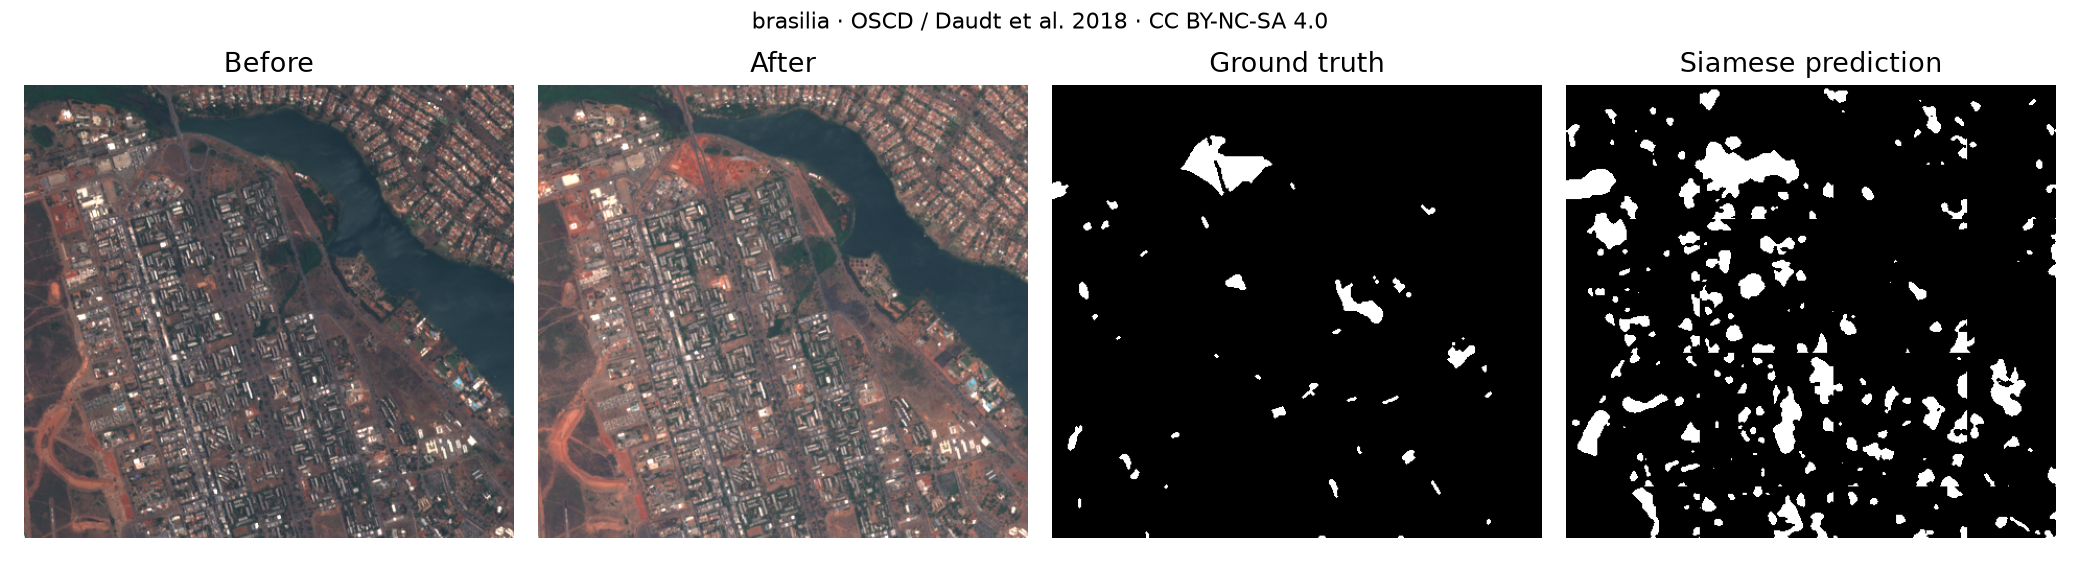
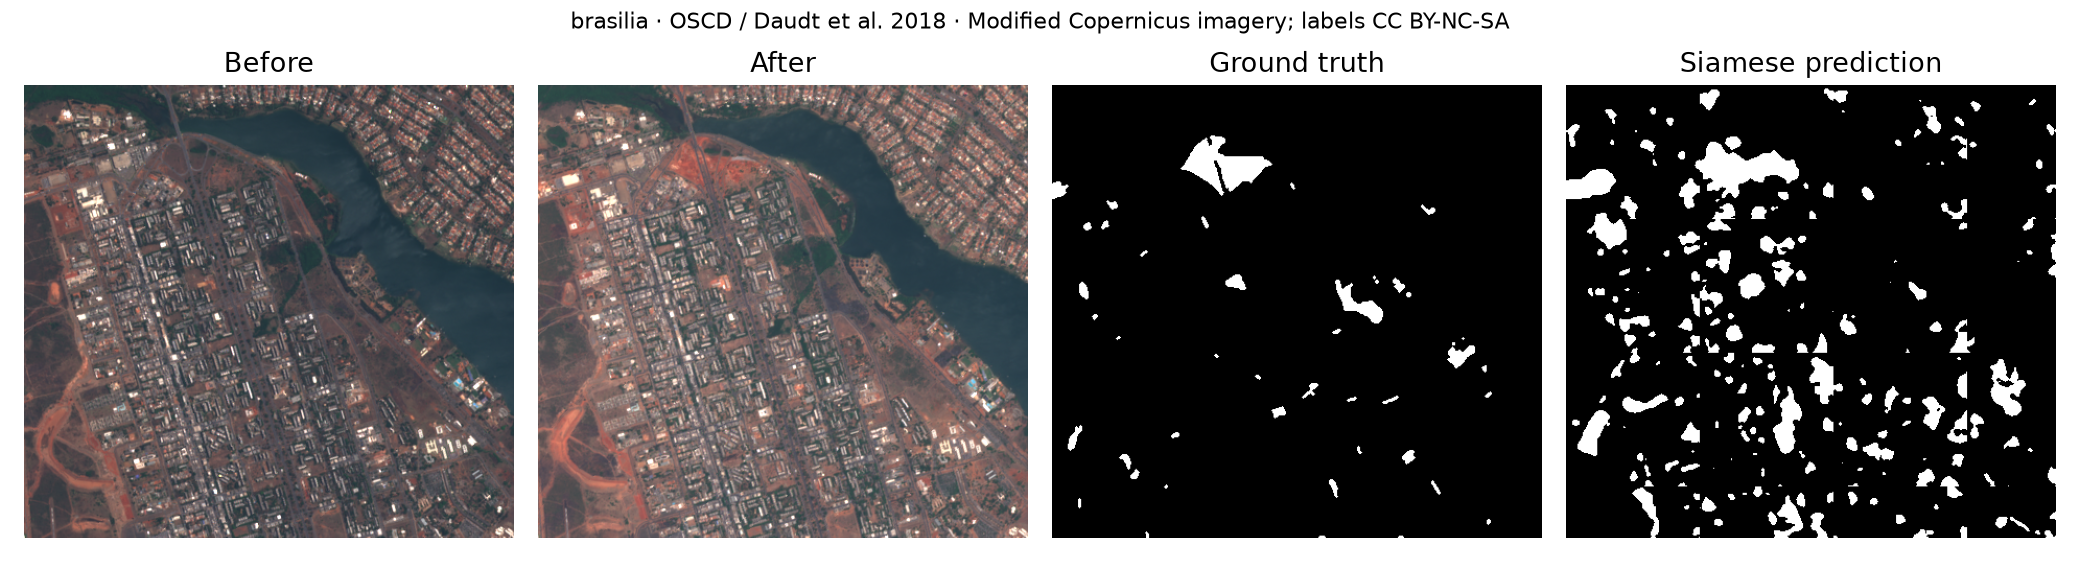
Verify rectified satellite inputs and document evaluated image extents

Changed region(s): [[0.2812, 0.0, 0.7188, 0.0625]]

diff --git a/change_lab/data.py b/change_lab/data.py
@@ -18,7 +18,7 @@ def prepare(root=Path('data')):
         p=root/name;raw=p.read_bytes()
         if hashlib.md5(raw).hexdigest()!=expected:raise ValueError('Archive does not match published TorchGeo MD5: '+name)
         manifest.append({'archive':name,'url':url,'sha256':hashlib.sha256(raw).hexdigest(),'bytes':len(raw),'md5_verified':expected})
-    samples={};groups={}
+    samples={};groups={};extents={}
     with zipfile.ZipFile(root/'images.zip') as images:
         names={n.replace('\\','/'):n for n in images.namelist()}
         for group in ['train','test']:
@@ -26,17 +26,26 @@ def prepare(root=Path('data')):
             with zipfile.ZipFile(root/(group+'-labels.zip')) as labels:
                 mask_names=[n for n in labels.namelist() if n.replace('\\','/').endswith('/cm/cm.png')]
                 for mask_name in mask_names:
-                    city=mask_name.replace('\\','/').split('/')[-3];cities.append(city);arrays=[]
+                    city=mask_name.replace('\\','/').split('/')[-3];cities.append(city);arrays=[];rectified=[]
                     for time in ['imgs_1','imgs_2']:
-                        channels=[]
+                        channels=[];reference=[]
                         for band in BANDS:
                             matches=[original for normalized,original in names.items() if '/'+city+'/'+time+'/' in normalized and normalized.endswith('_'+band+'.tif')]
                             if len(matches)!=1:raise ValueError(f'Expected one {city}/{time}/{band}, found {matches}')
                             channels.append(read_image(images,matches[0]).astype(np.float32))
+                            rect=[original for normalized,original in names.items() if '/'+city+'/'+time+'_rect/'+band+'.tif' in normalized]
+                            if len(rect)!=1:raise ValueError('Missing rectified reference band')
+                            reference.append(read_image(images,rect[0]).astype(np.float32))
                         arrays.append(np.stack(channels))
+                        rectified.append(np.stack(reference))
                     mask=read_image(labels,mask_name)
                     if mask.ndim==3:mask=mask[...,0]
                     h=min(mask.shape[0],arrays[0].shape[1],arrays[1].shape[1]);w=min(mask.shape[1],arrays[0].shape[2],arrays[1].shape[2])
+                    for original,reference in zip(arrays,rectified):
+                        if not np.array_equal(original[:,:h,:w],reference[:,:h,:w]):
+                            raise ValueError('Native bands disagree with rectified inputs: '+city)
+                    extents[city]={'label_shape':list(mask.shape[:2]),'evaluated_shape':[h,w],
+                                   'excluded_border_pixels':int(mask.shape[0]*mask.shape[1]-h*w)}
                     x=np.concatenate([a[:,:h,:w] for a in arrays]);y=(mask[:h,:w]>0).astype(np.uint8)
                     # Four native 10m bands; physical reflectance scale, no test-fitted statistics.
                     samples[city]=(np.clip(x/10000,0,1).astype(np.float32),y)
@@ -49,7 +58,8 @@ def prepare(root=Path('data')):
     assert not(set(train)&set(validation) or set(train)&set(test) or set(validation)&set(test))
     assert not({c.split('_')[0] for c in train+validation}&{c.split('_')[0] for c in test})
     split={'train':train,'validation':validation,'test':test,'excluded':['saclay_e'],'bands':BANDS,'reflectance_divisor':10000,
-           'archives':manifest,'cities':{c:{'shape':list(y.shape),'change_fraction':float(y.mean())} for c,(x,y) in samples.items()}}
+           'rectified_comparison':{'cities_checked':len(samples),'different_fields':0,'extent':'common native image and label overlap'},
+           'archives':manifest,'cities':{c:{'shape':list(y.shape),'change_fraction':float(y.mean()),**extents[c]} for c,(x,y) in samples.items()}}
     Path('results/split-manifest.json').write_text(json.dumps(split,indent=2)+'\n');print(json.dumps(split))
     return split
 

diff --git a/scripts/report.py b/scripts/report.py
@@ -20,9 +20,10 @@ for name in ['difference','unet','siamese']:
         fig,axes=plt.subplots(1,4,figsize=(13,3.6));images=[np.moveaxis(example['before'],0,-1),np.moveaxis(example['after'],0,-1),example['truth'],example['score']>=r['threshold']]
         for ax,image,title in zip(axes,images,['Before','After','Ground truth','Siamese prediction']):
             ax.imshow(np.clip(image*3,0,1) if image.ndim==3 else image,cmap='gray');ax.set_title(title);ax.axis('off')
-        fig.suptitle(str(example['city'])+' · OSCD / Daudt et al. 2018 · CC BY-NC-SA 4.0',fontsize=10);fig.tight_layout();fig.savefig(root/'example.png',dpi=160)
+        fig.suptitle(str(example['city'])+' · OSCD / Daudt et al. 2018 · Modified Copernicus imagery; labels CC BY-NC-SA',fontsize=10);fig.tight_layout();fig.savefig(root/'example.png',dpi=160)
         per=r['test']['per_city'];worst=sorted(per,key=lambda c:per[c]['f1'])[:3];lines+=['',f"Lowest F1 cities for Siamese seed 0: {', '.join(c+' ('+format(per[c]['f1'],'.3f')+')' for c in worst)}."]
-lines+=['','The threshold and epoch are chosen on validation cities only. Every pixel of the test cities is evaluated. Random crops never cross split boundaries. Model seed variability and per-city scores expose geographic generalization limits.','',
+excluded=sum(split['cities'][c].get('excluded_border_pixels',0) for c in split['test'])
+lines+=['',f'The threshold and epoch are chosen on validation cities only. Every pixel in the common native image/label extent of each test city is evaluated. Unsupported outer borders exclude {excluded:,} labeled pixels; per-city extents are retained in the manifest. Random crops never cross split boundaries. Model seed variability and per-city scores expose geographic generalization limits.','',
         'These are small independent baseline implementations, not reproductions of published benchmark training. Nonoverlapping inference tiles can create seams; four-band inputs omit nine available channels. Limited patches and epochs constrain the results.','',
         'Image-derived artifacts in this results directory are subject to the OSCD dataset terms, separately from the MIT code license. Attribution: Daudt, Le Saux, Boulch and Gousseau, Urban Change Detection for Multispectral Earth Observation Using Convolutional Neural Networks, IGARSS 2018.']
 (root/'summary.json').write_text(json.dumps(summary,indent=2)+'\n');(root/'REPORT.md').write_text('\n'.join(lines)+'\n');print('\n'.join(lines))

diff --git a/change_lab/experiment.py b/change_lab/experiment.py
@@ -67,7 +67,7 @@ def main():
         model.load_state_dict(best_state);vs={c:infer(model,xx,device=a.device) for c,(xx,yy) in val.items()};best,threshold=select(vs,val,np.linspace(.1,.9,17))
         ts={c:infer(model,xx,device=a.device) for c,(xx,yy) in test.items()};torch.save({'state':best_state,'model':a.model},output/'checkpoint.pt')
     result={'config':vars(a),'torch':torch.__version__,'seconds':time.perf_counter()-start,'threshold':threshold,'validation_macro_f1':best,
-            'test':evaluate(ts,test,threshold),'history':history,'method':'All official test cities held out. Saclay east excluded because west is test. Last 3 eligible training cities form validation. All 10m image pixels evaluated by nonoverlapping tiles; no random pixel split.'}
+            'test':evaluate(ts,test,threshold),'history':history,'method':'All official test cities held out. Saclay east excluded because west is test. Last 3 eligible training cities form validation. Every pixel in the common native image/label extent is evaluated by nonoverlapping tiles; no random pixel split. Unsupported outer borders are excluded, as recorded in the manifest.'}
     (output/'metrics.json').write_text(json.dumps(result,indent=2)+'\n')
     city=sorted(ts)[0];np.savez_compressed(output/'example.npz',score=ts[city],truth=test[city][1],before=test[city][0][[2,1,0]],after=test[city][0][[6,5,4]],city=city)
     print(json.dumps({'model':a.model,'seed':a.seed,'threshold':threshold,'test':result['test']['micro'],'macro':result['test']['macro_city_f1']}))

diff --git a/README.md b/README.md
@@ -13,12 +13,12 @@ bash scripts/run_cpu.sh
 
 Downloads total about 489 MiB from the author's mirrors. Archive MD5 values are checked against [TorchGeo's published dataset implementation](https://docs.torchgeo.org/en/v0.7.2/_modules/torchgeo/datasets/oscd.html); SHA-256 and source URLs are retained in the split manifest. The old train-label domain has moved to `partage.imt.fr`.
 
-Saclay East is excluded because neighboring Saclay West is in the official test set. The thirteen remaining official training cities are sorted; their last three become validation, and ten train the models. The ten official test cities are held out. No random-pixel split. Validation chooses model epoch and decision threshold; test evaluates all pixels by tiles. Three measured seeds per neural architecture, a simple difference baseline, confusion counts, micro and macro metrics, and per-city errors are published in [report](results/REPORT.md) and [summary](results/summary.json).
+Saclay East is excluded because neighboring Saclay West is in the official test set. The thirteen remaining official training cities are sorted; their last three become validation, and ten train the models. The ten official test cities are held out. No random-pixel split. Validation chooses model epoch and decision threshold; test evaluates every pixel in the common native image/label extent by tiles. Unsupported outer borders are excluded and counted in the manifest. The four-band inputs were checked against the official rectified rasters and are identical inside these extents. Three measured seeds per neural architecture, a difference baseline, confusion counts, micro/macro metrics and city errors appear in [report](results/REPORT.md) and [summary](results/summary.json).
 
 These small models are baselines, with 15 epochs and 12 random patches per city. Four bands omit the other spectral channels. This does not reproduce a paper's full training recipe or claim a state-of-the-art score. Discuss class imbalance, geographic shift, threshold selection, shared temporal encoding and tile seams in an interview.
 
 ## Attribution and license
 
-Code was developed with AI assistance and is MIT licensed. OSCD images, labels, and derived `results/example.png` and `results/*/example.npz` are **separate third-party data**, under [CC BY-NC-SA 4.0](https://creativecommons.org/licenses/by-nc-sa/4.0/) as identified by the dataset distributor. Raw images and model weights are excluded. Retain attribution when reusing visual results.
+Code was developed with AI assistance and is MIT licensed. The bundled original dataset README identifies the images as modified Copernicus Sentinel data from 2015–2018 and releases change labels under Creative Commons BY-NC-SA (without specifying a version). These terms are separate from the code license. They also apply to label-derived `results/example.png` and `results/*/example.npz`. Raw images and model weights are excluded. Retain attribution and consult the authors for commercial reuse of labels.
 
 Dataset and paper: [Daudt, Le Saux, Boulch and Gousseau (IGARSS 2018)](https://rcdaudt.github.io/oscd/), [author's reference code](https://github.com/rcdaudt/fully_convolutional_change_detection).

diff --git a/results/REPORT.md b/results/REPORT.md
@@ -10,7 +10,7 @@ Official OSCD: 10 training cities, 3 validation cities, 10 held-out test cities.
 
 Lowest F1 cities for Siamese seed 0: valencia (0.011), norcia (0.048), saclay_w (0.052).
 
-The threshold and epoch are chosen on validation cities only. Every pixel of the test cities is evaluated. Random crops never cross split boundaries. Model seed variability and per-city scores expose geographic generalization limits.
+The threshold and epoch are chosen on validation cities only. Every pixel in the common native image/label extent of each test city is evaluated. Unsupported outer borders exclude 11,183 labeled pixels; per-city extents are retained in the manifest. Random crops never cross split boundaries. Model seed variability and per-city scores expose geographic generalization limits.
 
 These are small independent baseline implementations, not reproductions of published benchmark training. Nonoverlapping inference tiles can create seams; four-band inputs omit nine available channels. Limited patches and epochs constrain the results.
 

diff --git a/results/LICENSE.md b/results/LICENSE.md
@@ -1,6 +1,5 @@
-OSCD image-derived examples in this folder and its subfolders use the dataset's CC BY-NC-SA 4.0 terms, separate from the repository's MIT code license.
+The original OSCD archive README identifies imagery as modified Copernicus Sentinel data from 2015–2018 and releases change labels under Creative Commons BY-NC-SA, without specifying a version. These terms cover the corresponding derived examples and are separate from the repository's MIT code license. The authors request contact for commercial use of change labels.
 
 Attribution: Rodrigo Caye Daudt, Bertrand Le Saux, Alexandre Boulch and Yann Gousseau. Urban Change Detection for Multispectral Earth Observation Using Convolutional Neural Networks. IGARSS 2018, pp. 2115–2118.
 
 Source: https://rcdaudt.github.io/oscd/
-License: https://creativecommons.org/licenses/by-nc-sa/4.0/
